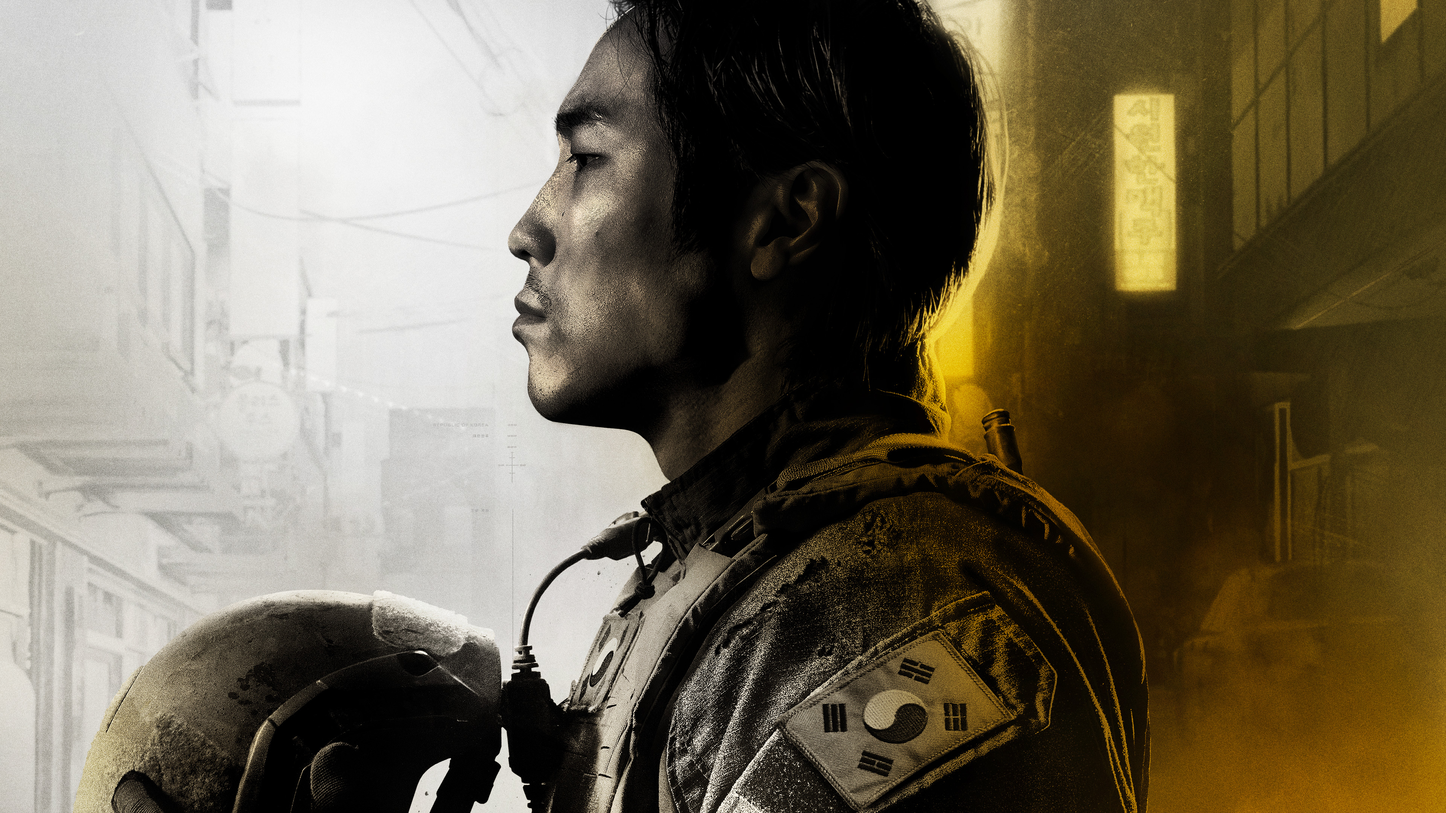
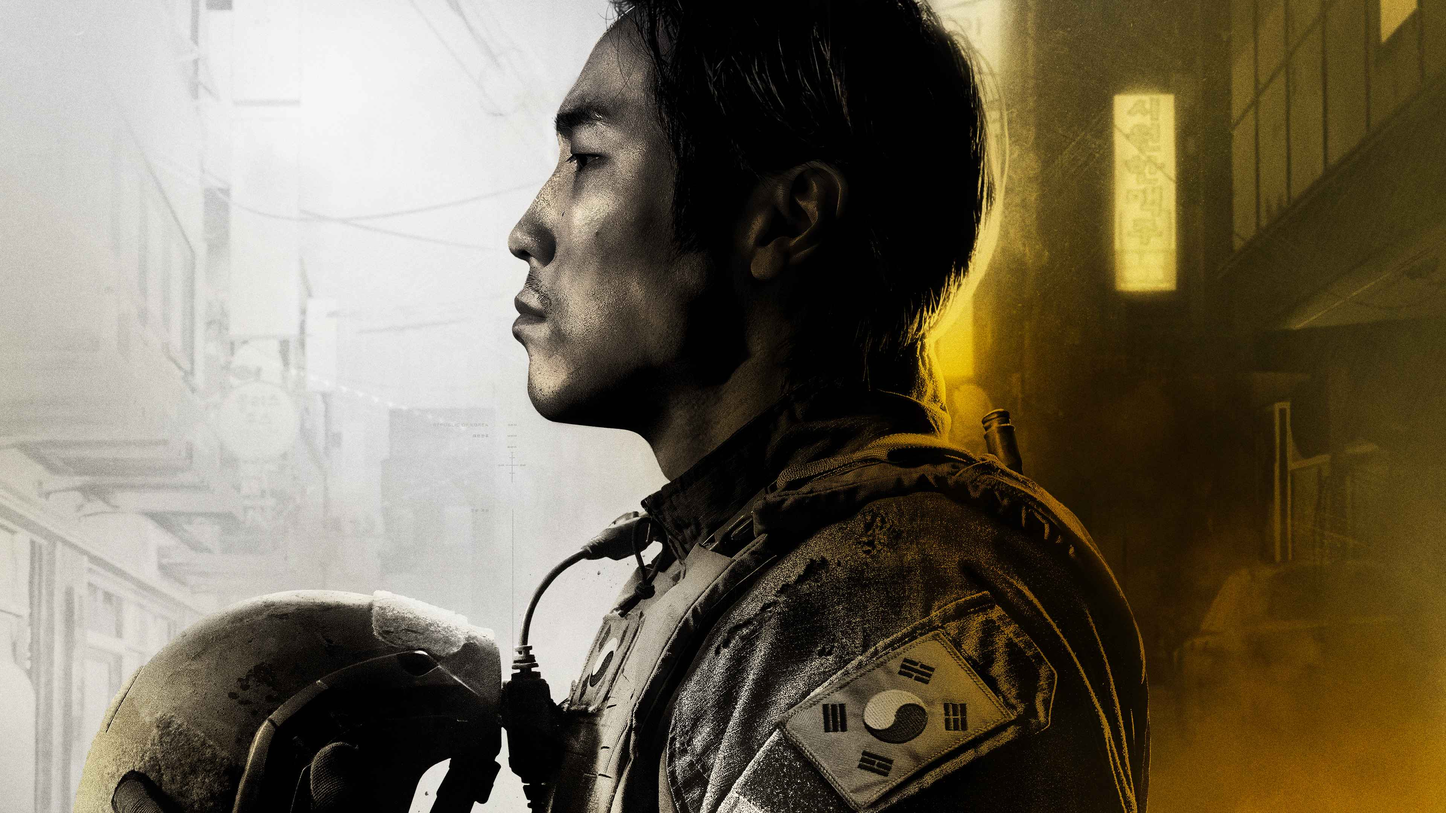
add lightweight assets for cod microsite

diff --git a/call_of_duty/index.html b/call_of_duty/index.html
@@ -482,10 +482,10 @@
     <div id="screenshotRailWrap">
         <div class="rail-eyebrow">screenshots</div>
         <div id="screenshotRail">
-            <div class="screenshot-tile" data-index="0"><img src="assets/MW4_CAM_05_BRANDED.png" alt="Screenshot 1"></div>
-            <div class="screenshot-tile" data-index="1"><img src="assets/MW4_CAM_06_BRANDED.png" alt="Screenshot 2"></div>
-            <div class="screenshot-tile" data-index="2"><img src="assets/MW4_CAM_009_BRANDED.png" alt="Screenshot 3"></div>
-            <div class="screenshot-tile" data-index="3"><img src="assets/MW4_DMZ_01_BRANDED.png" alt="Screenshot 4"></div>
+            <div class="screenshot-tile" data-index="0"><img src="assets/MW4_CAM_05_BRANDED.jpg" alt="Screenshot 1"></div>
+            <div class="screenshot-tile" data-index="1"><img src="assets/MW4_CAM_06_BRANDED.jpg" alt="Screenshot 2"></div>
+            <div class="screenshot-tile" data-index="2"><img src="assets/MW4_CAM_009_BRANDED.jpg" alt="Screenshot 3"></div>
+            <div class="screenshot-tile" data-index="3"><img src="assets/MW4_DMZ_01_BRANDED.jpg" alt="Screenshot 4"></div>
         </div>
     </div>
 
